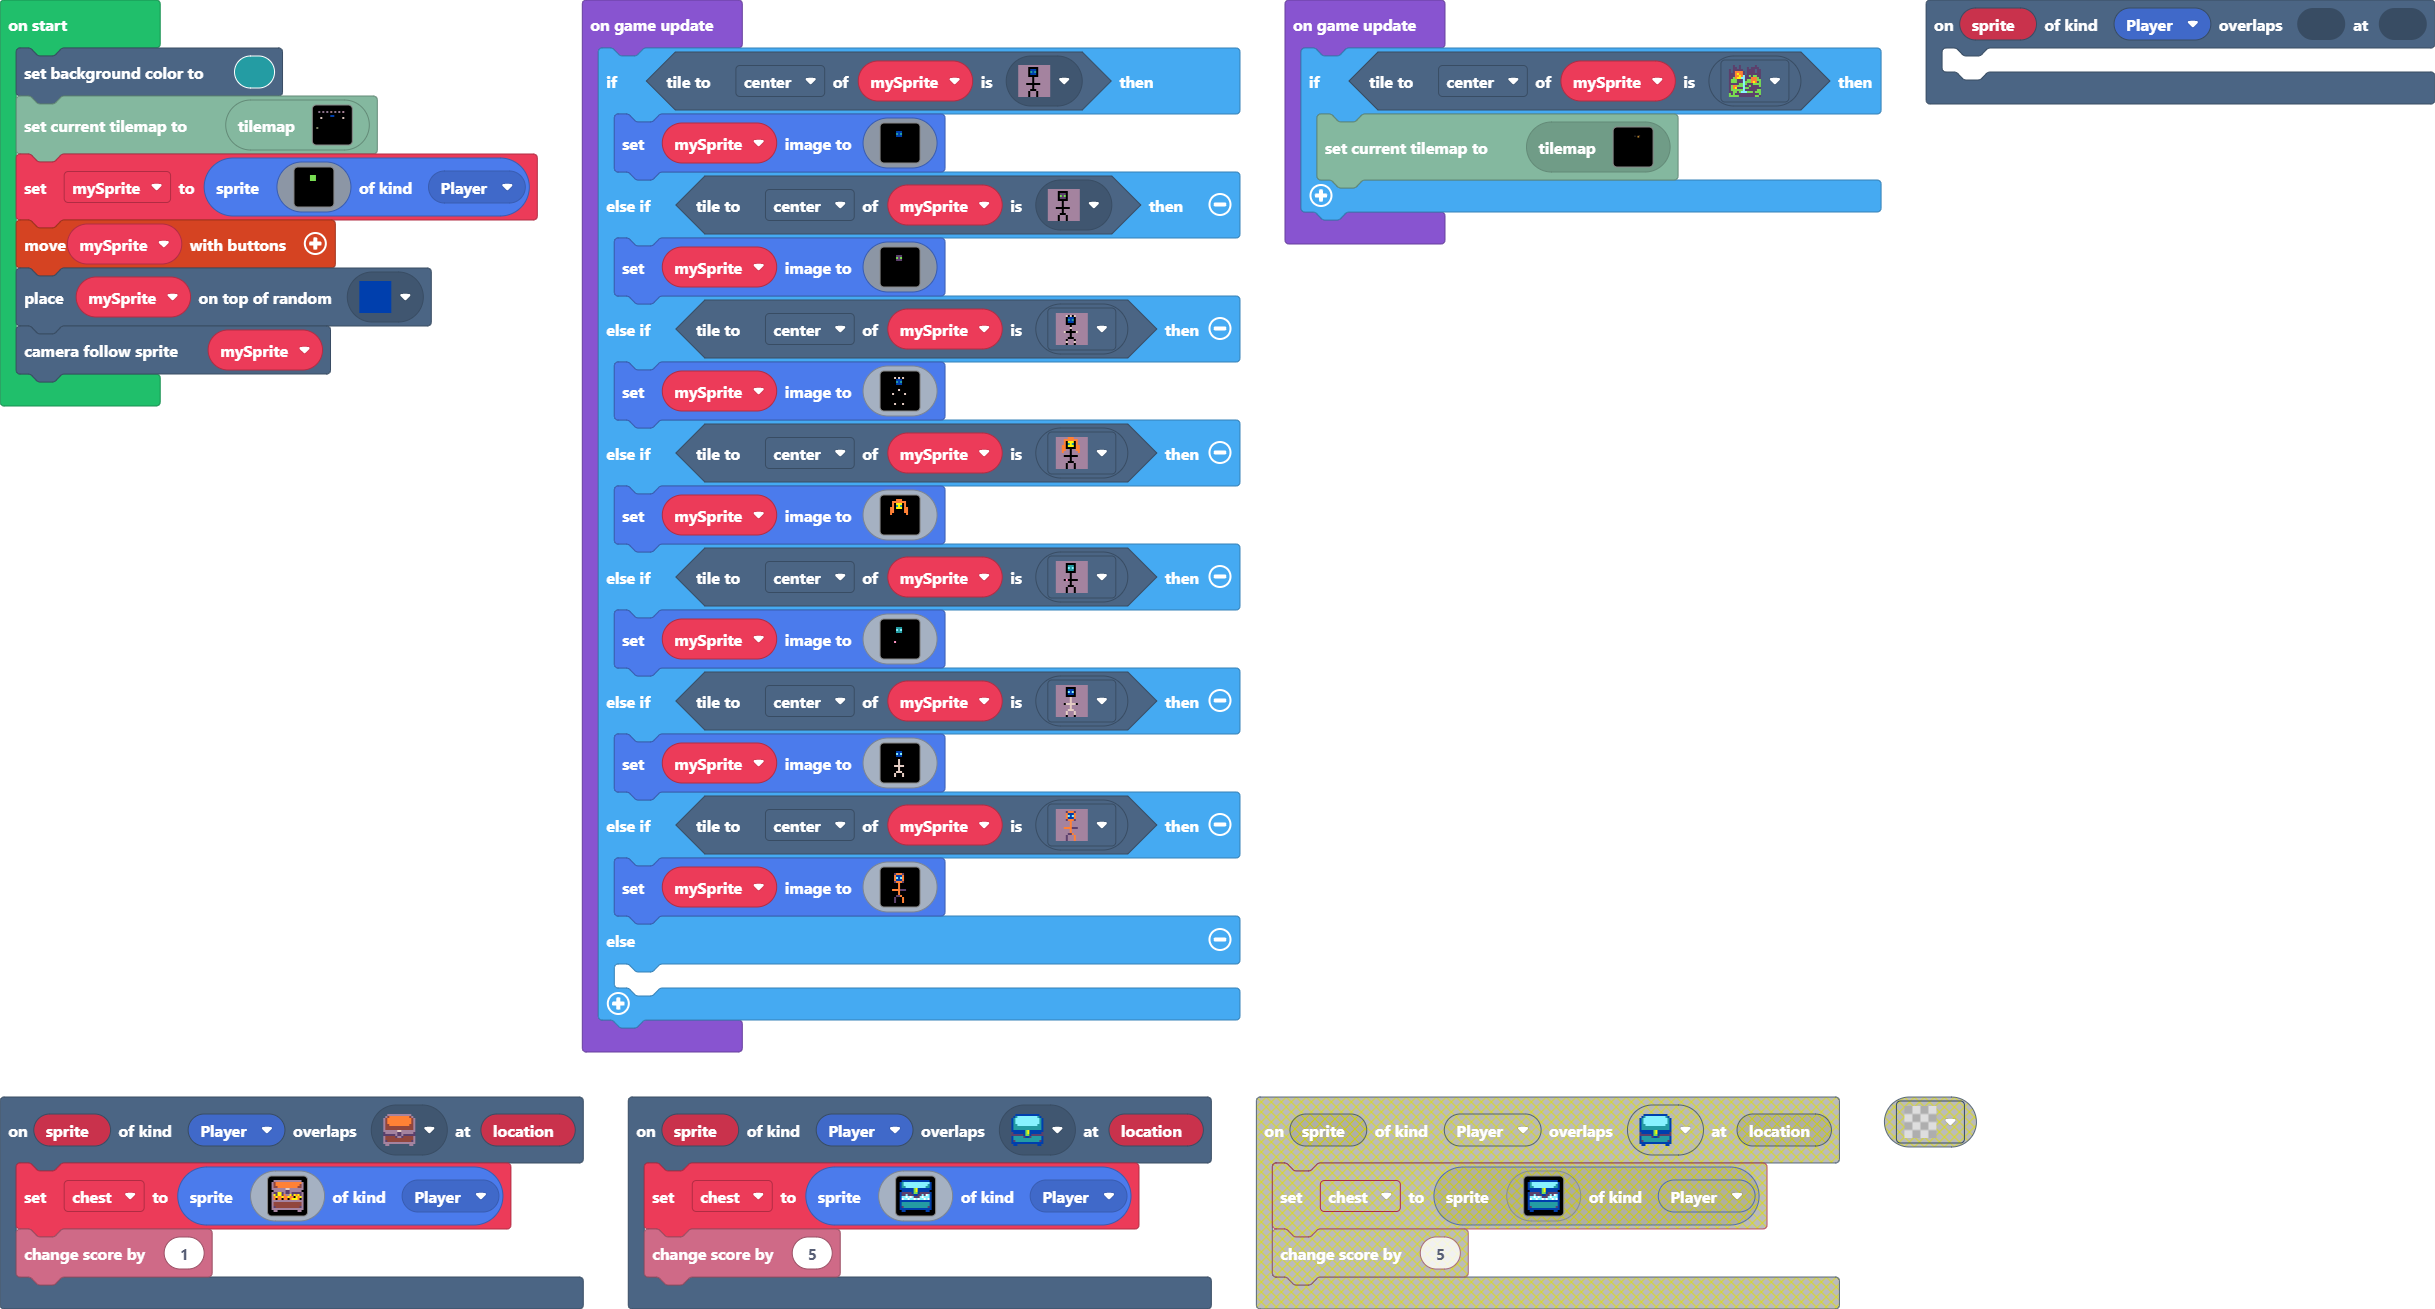
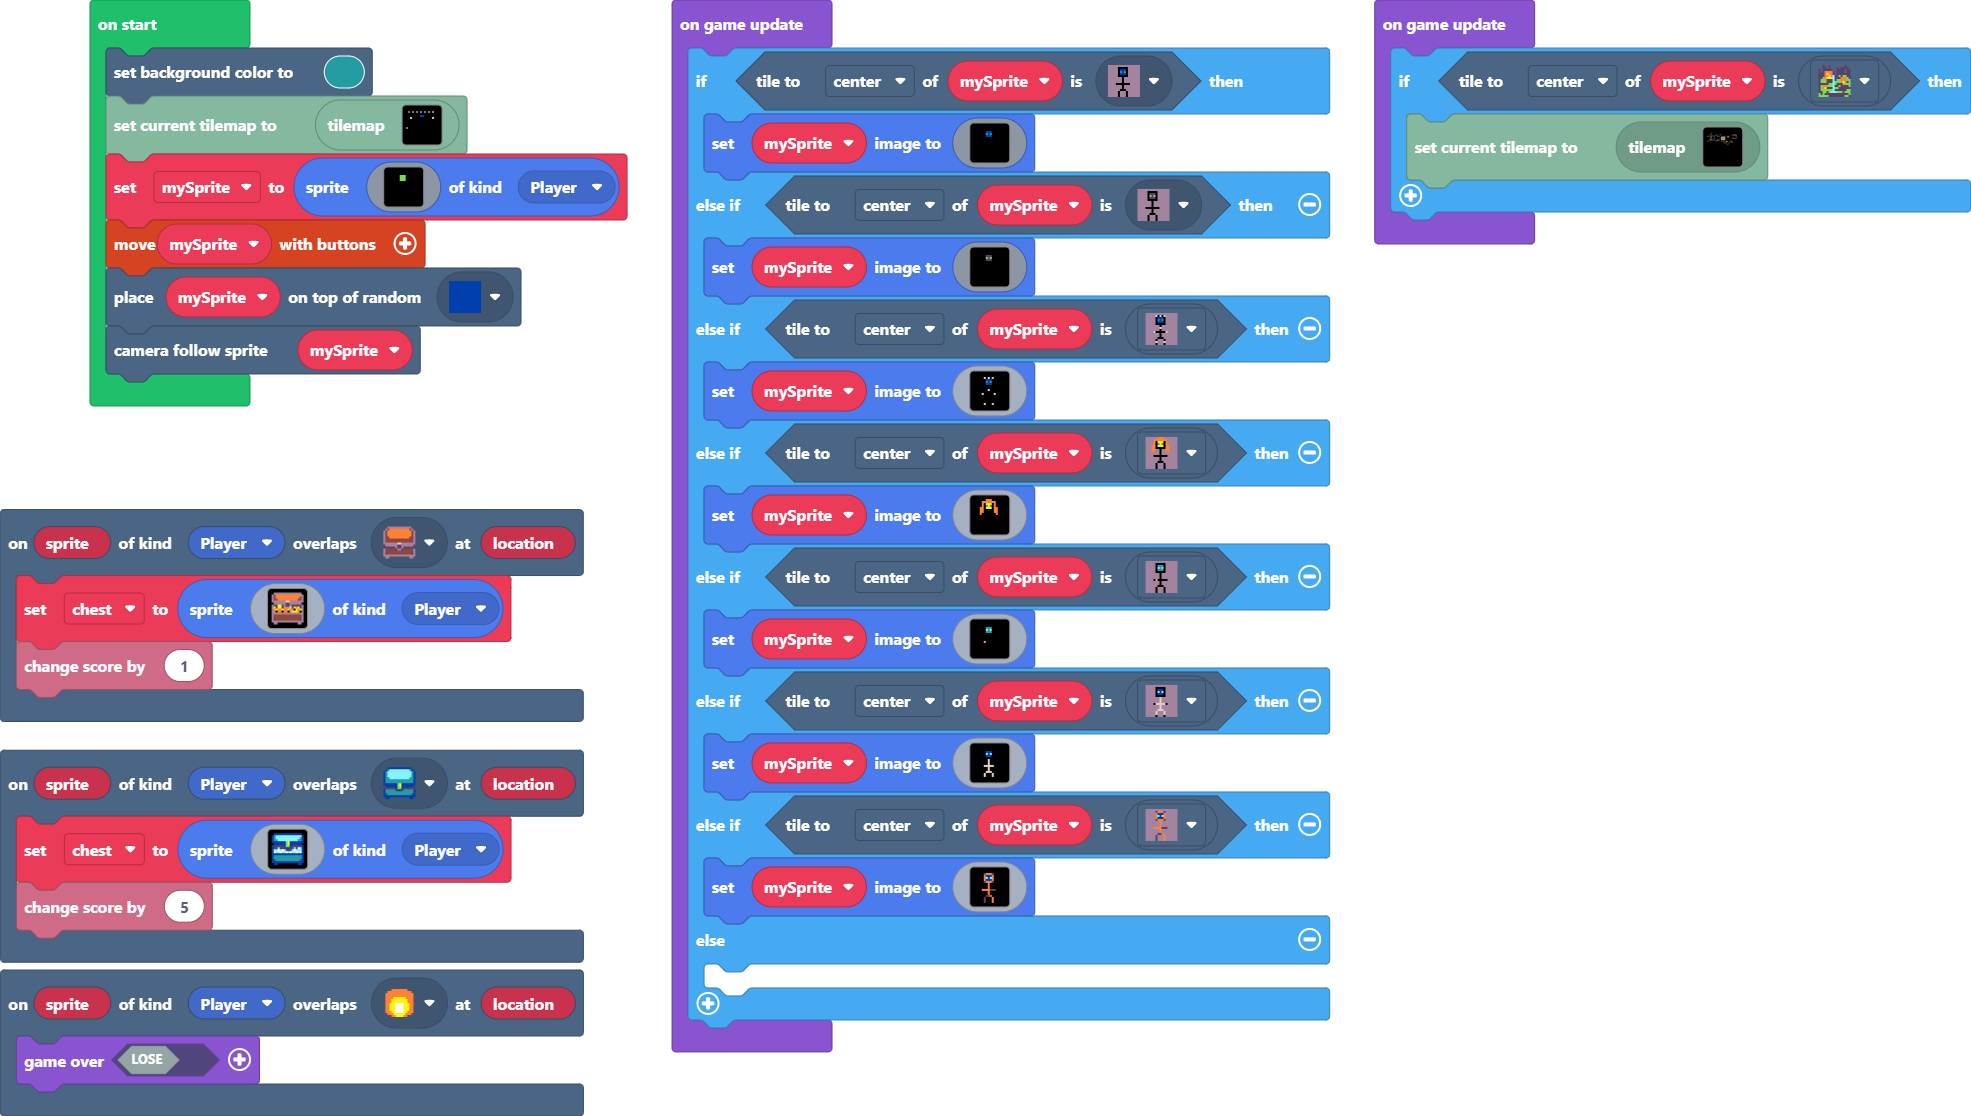
level 1 finished (actually)

diff --git a/tilemap.g.ts b/tilemap.g.ts
@@ -40,6 +40,22 @@ namespace myTiles {
     export const tile20 = image.ofBuffer(hex``);
     //% fixedInstance jres blockIdentity=images._tile
     export const tile13 = image.ofBuffer(hex``);
+    //% fixedInstance jres blockIdentity=images._tile
+    export const tile19 = image.ofBuffer(hex``);
+    //% fixedInstance jres blockIdentity=images._tile
+    export const tile21 = image.ofBuffer(hex``);
+    //% fixedInstance jres blockIdentity=images._tile
+    export const tile22 = image.ofBuffer(hex``);
+    //% fixedInstance jres blockIdentity=images._tile
+    export const tile23 = image.ofBuffer(hex``);
+    //% fixedInstance jres blockIdentity=images._tile
+    export const tile24 = image.ofBuffer(hex``);
+    //% fixedInstance jres blockIdentity=images._tile
+    export const tile25 = image.ofBuffer(hex``);
+    //% fixedInstance jres blockIdentity=images._tile
+    export const tile26 = image.ofBuffer(hex``);
+    //% fixedInstance jres blockIdentity=images._tile
+    export const tile27 = image.ofBuffer(hex``);
 
     helpers._registerFactory("tilemap", function(name: string) {
         switch(helpers.stringTrim(name)) {
@@ -101,7 +117,7 @@ namespace myTiles {
 . . . . . . . . . . . . . . . . 
 `, [myTiles.transparency16], TileScale.Sixteen);
             case "level4":
[2 lines of base64/hex data omitted]
 .............................................
 .............................................
 .............................................
@@ -147,7 +163,7 @@ namespace myTiles {
 .............................................
 .............................................
 .............................................
-`, [myTiles.transparency16,myTiles.tile6,myTiles.tile10,myTiles.tile15,myTiles.tile17,myTiles.tile18], TileScale.Sixteen);
+`, [myTiles.transparency16,myTiles.tile6,myTiles.tile10,myTiles.tile15,myTiles.tile17,myTiles.tile18,myTiles.tile9,myTiles.tile14,myTiles.tile16,myTiles.tile20,myTiles.tile19,myTiles.tile21,myTiles.tile22,myTiles.tile23,myTiles.tile24,myTiles.tile25,myTiles.tile26,myTiles.tile27], TileScale.Sixteen);
         }
         return null;
     })
@@ -193,6 +209,22 @@ namespace myTiles {
             case "tile20":return tile20;
             case "myTile11":
             case "tile13":return tile13;
+            case "myTile17":
+            case "tile19":return tile19;
+            case "myTile19":
+            case "tile21":return tile21;
+            case "myTile20":
+            case "tile22":return tile22;
+            case "myTile21":
+            case "tile23":return tile23;
+            case "myTile22":
+            case "tile24":return tile24;
+            case "myTile23":
+            case "tile25":return tile25;
+            case "myTile24":
+            case "tile26":return tile26;
+            case "myTile25":
+            case "tile27":return tile27;
         }
         return null;
     })

diff --git a/main.ts b/main.ts
@@ -1,6 +1,3 @@
-scene.onOverlapTile(SpriteKind.Player, null, function (sprite, undefined) {
-	
-})
 scene.onOverlapTile(SpriteKind.Player, assets.tile`myTile15`, function (sprite, location) {
     chest = sprites.create(img`
         . b b b b b b b b b b b b b b . 
@@ -21,6 +18,9 @@ scene.onOverlapTile(SpriteKind.Player, assets.tile`myTile15`, function (sprite, 
         . b b . . . . . . . . . . b b . 
         `, SpriteKind.Player)
     info.changeScoreBy(1)
+})
+scene.onOverlapTile(SpriteKind.Player, assets.tile`myTile13`, function (sprite, location) {
+    game.over(false)
 })
 scene.onOverlapTile(SpriteKind.Player, assets.tile`myTile16`, function (sprite, location) {
     chest = sprites.create(img`
